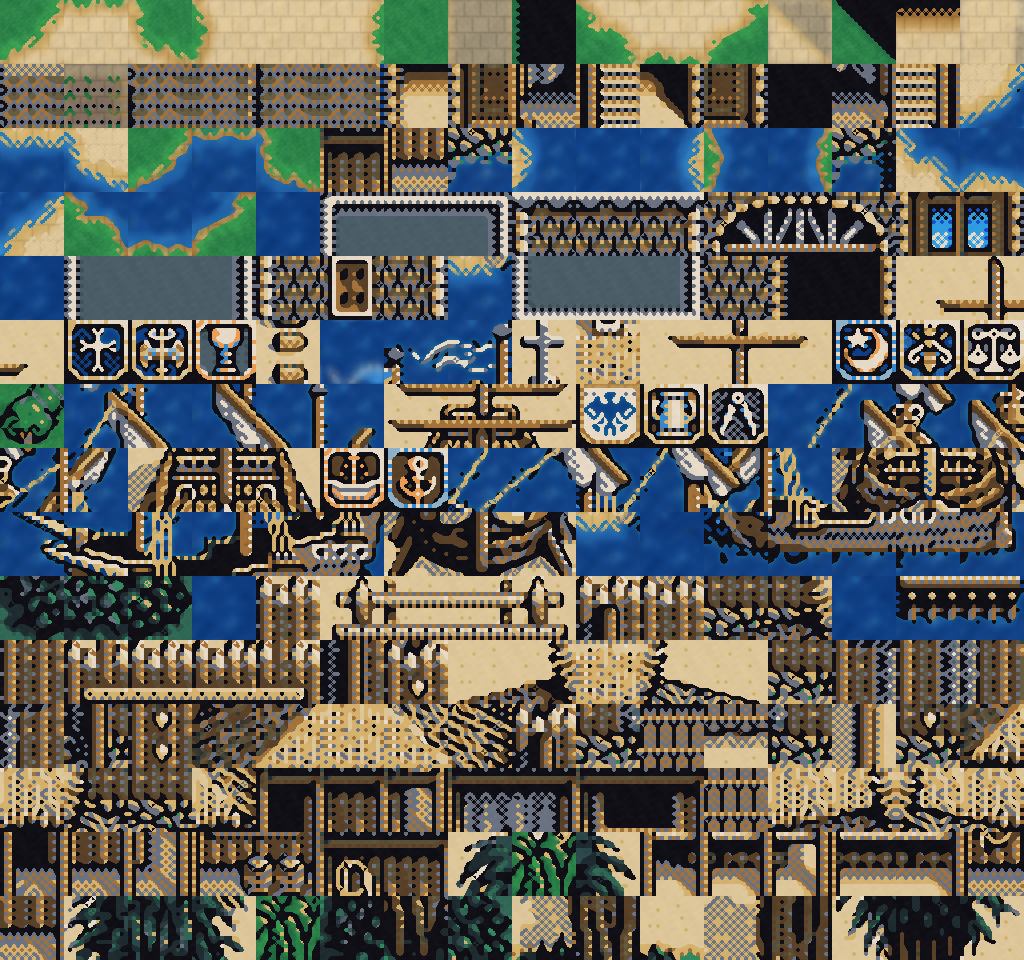
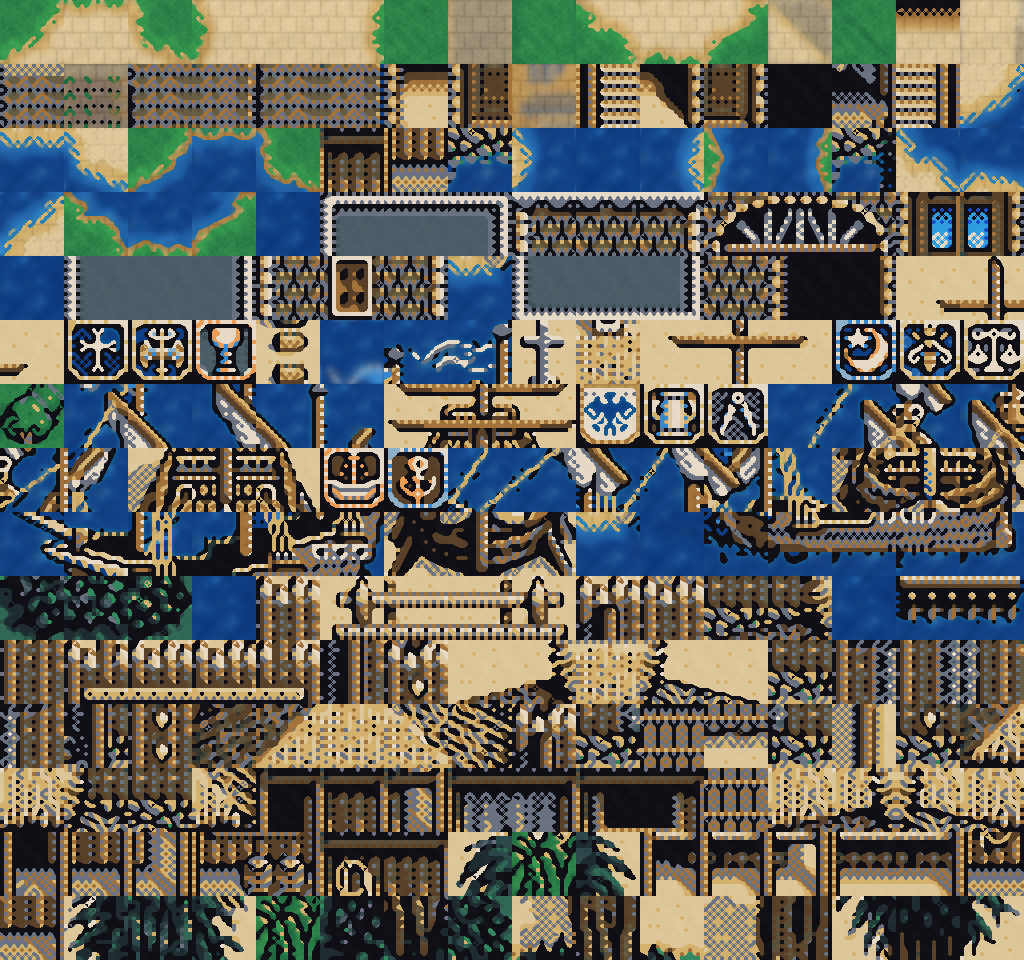
fix(art,hd2d): replace baked left-wall black shadow tiles with seamless flat ground for real-time shadows

Changed region(s): [[0.5, 0.0, 0.5625, 0.1562], [0.8125, 0.0, 0.875, 0.0625]]

diff --git a/tools/build_hd_textures.py b/tools/build_hd_textures.py
@@ -346,13 +346,25 @@ def process_portchip_sheet(set_idx: int, p1: int, p2: int, p3: int, mats):
                 hull_near = sum(hull_pad[dy:dy + tile_sz, dx:dx + tile_sz] for dy in range(3) for dx in range(3))
                 is_water = water_base | (((tile_idx == 0) | (tile_idx == 8)) & (blue_sum >= 4) & (hull_near == 0))
 
-            is_arch_walk = (t_id >= 16) and (t_id < p2) and (int(np.sum(tile_idx == 0)) >= 25) and not np.any(is_water)
+            uniq_idx = set(np.unique(tile_idx).tolist())
+            c0_cnt = int(np.sum(tile_idx == 0))
+            is_grass_shadow_tile = (t_id < p2) and (c0_cnt >= 90) and uniq_idx.issubset({0, 13, 14})
+            is_sand_shadow_tile = (t_id < p2) and (c0_cnt >= 90) and (
+                uniq_idx.issubset({0, 8, 10, 11, 15}) or uniq_idx.issubset({0, 10, 13})
+            )
+            is_ground_shadow_tile = is_grass_shadow_tile or is_sand_shadow_tile
+
+            # 行1 (t_id >= 16) 且位于 < p2 的多黑线建筑底座/门扇 (如门下半格 22, 23 / 屋顶 26) 归为建筑，但排除纯地面墙影 (21, 27 等)
+            is_arch_walk = (t_id >= 16) and (t_id < p2) and (c0_cnt >= 25) and not np.any(is_water) and not is_ground_shadow_tile
             is_walk = (t_id < p2) and not is_arch_walk
-            is_tree_tile = (t_id >= p2) and (int(np.sum((tile_idx == 13) | (tile_idx == 14))) >= 120) and not np.any(is_water) and (int(np.sum(tile_idx == 0)) >= 8)
+            is_tree_tile = (t_id >= p2) and (int(np.sum((tile_idx == 13) | (tile_idx == 14))) >= 120) and not np.any(is_water) and (c0_cnt >= 8)
             is_shore_tile = (t_id >= p2) and np.any(is_water) and (int(np.sum((tile_idx == 13) | (tile_idx == 14))) >= 18)
 
             sem[is_water] = 1
-            if is_walk:
+            if is_ground_shadow_tile:
+                # 原版建筑左侧的纯黑硬块投影：还原为平坦草坪/砂地，把真实投影完全交给 WebGL2 实时太阳光影！
+                sem[:, :] = 3 if is_grass_shadow_tile else 2
+            elif is_walk:
                 is_grass = (tile_idx == 13) | (tile_idx == 14)
                 is_sand = ((tile_idx == 10) | (tile_idx == 11) | (tile_idx == 15) | (tile_idx == 8)) & ~is_water & ~is_grass
                 sem[is_sand] = 2
@@ -371,13 +383,20 @@ def process_portchip_sheet(set_idx: int, p1: int, p2: int, p3: int, mats):
                     blk_pad = np.pad((tile_idx == 0).astype(np.int32), ((1, 1), (1, 1)), mode="edge")
                     blk_near = sum(blk_pad[dy:dy + tile_sz, dx:dx + tile_sz] for dy in range(3) for dx in range(3))
                     sem[((tile_idx == 10) | (tile_idx == 11)) & (blk_near == 0) & ~is_water] = 2
-            sem[tile_idx == 0] = 0
+            if not is_ground_shadow_tile:
+                sem[tile_idx == 0] = 0
             sem[is_water] = 1
 
             # 1) Albedo: 地面、海岸草坡与树格使用草地色盘，其余实体建筑使用建筑色盘（含门下半格 22/23）
             pairs = GROUND_DITHER_PAIRS if (is_walk or is_shore_tile or is_tree_tile) else ARCH_DITHER_PAIRS
             tile_pal = MODERN_GROUND_PAL if (is_walk or is_tree_tile or is_shore_tile) else MODERN_ARCH_PAL
-            base_16 = dedither_tile_rgb(tile_idx, tile_pal, pairs, is_water=is_water, wrap_edges=(is_walk and t_id < p1))
+            base_16 = dedither_tile_rgb(tile_idx, tile_pal, pairs, is_water=is_water, wrap_edges=(is_walk and t_id < p1 and not is_ground_shadow_tile))
+            if is_ground_shadow_tile:
+                if is_grass_shadow_tile:
+                    fill_col = MODERN_GROUND_PAL[13] * 0.45 + MODERN_GROUND_PAL[14] * 0.55
+                else:
+                    fill_col = MODERN_GROUND_PAL[10] * 0.45 + MODERN_GROUND_PAL[11] * 0.55
+                base_16[tile_idx == 0] = fill_col
             if pure_water_ripple_tile:
                 # 153 等水上影波纹格：只保留柔和深暗水波层次，不生成刺眼黑刺团块
                 dark_ripple = (tile_idx == 0) | (tile_idx == 8)
